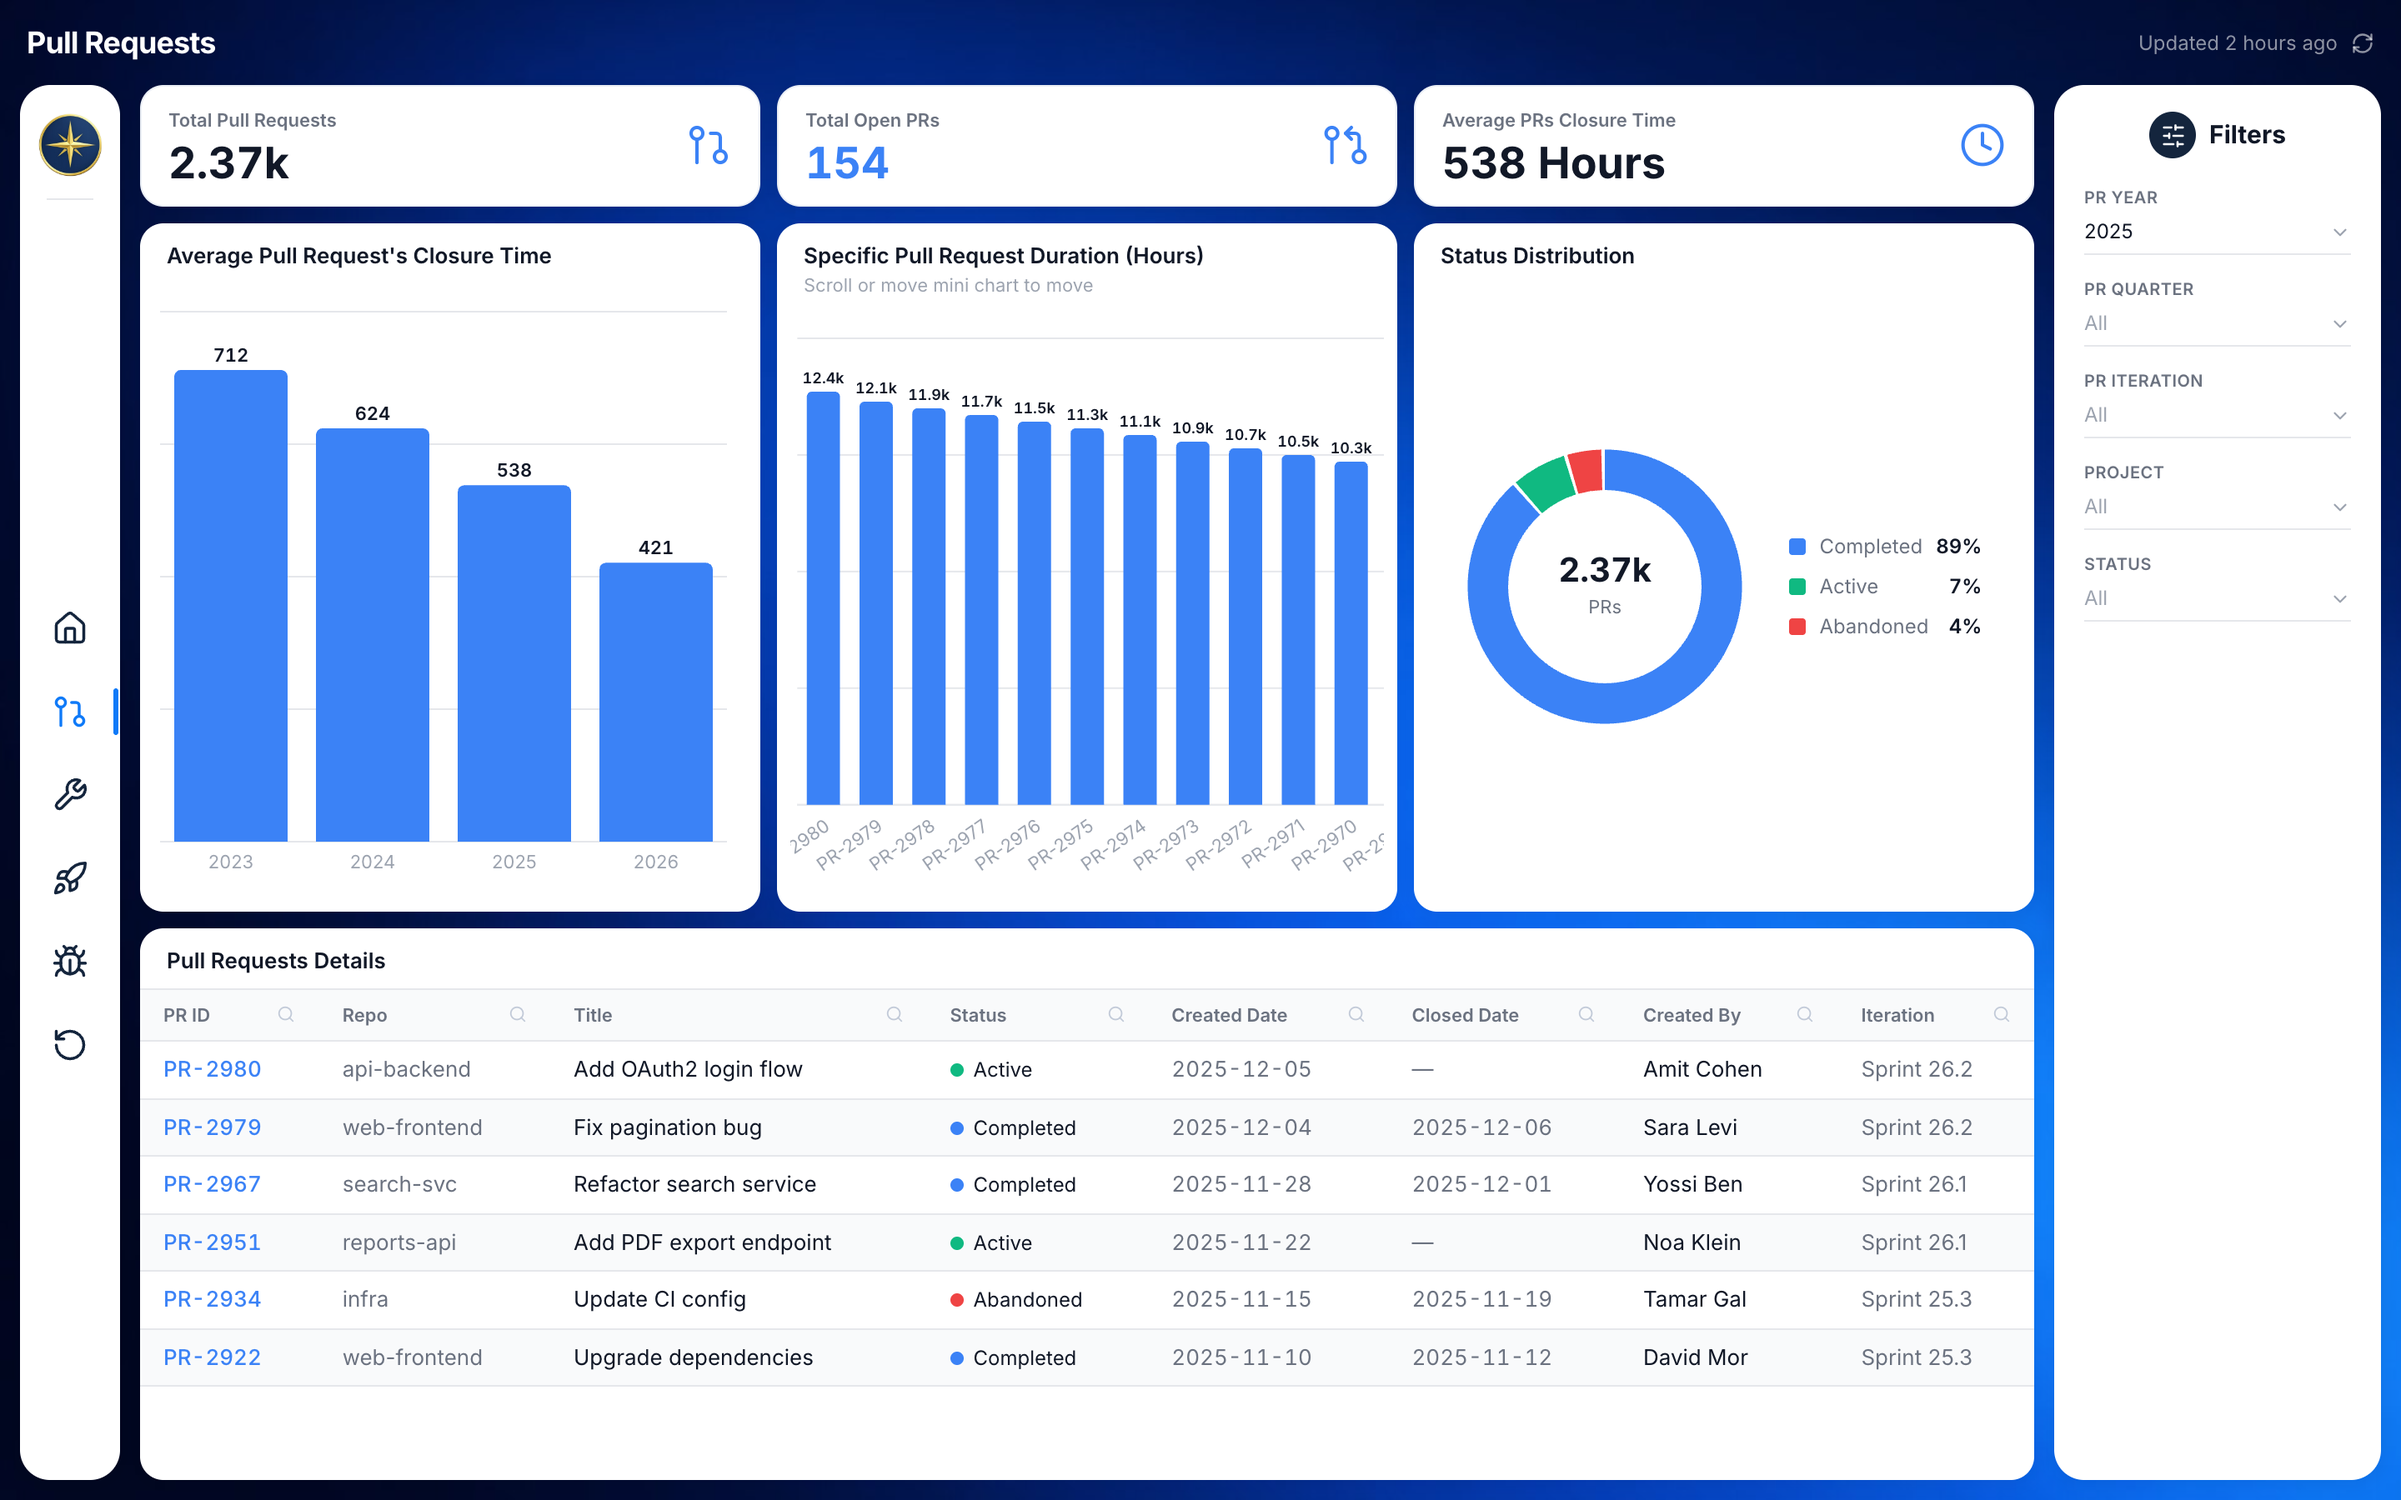
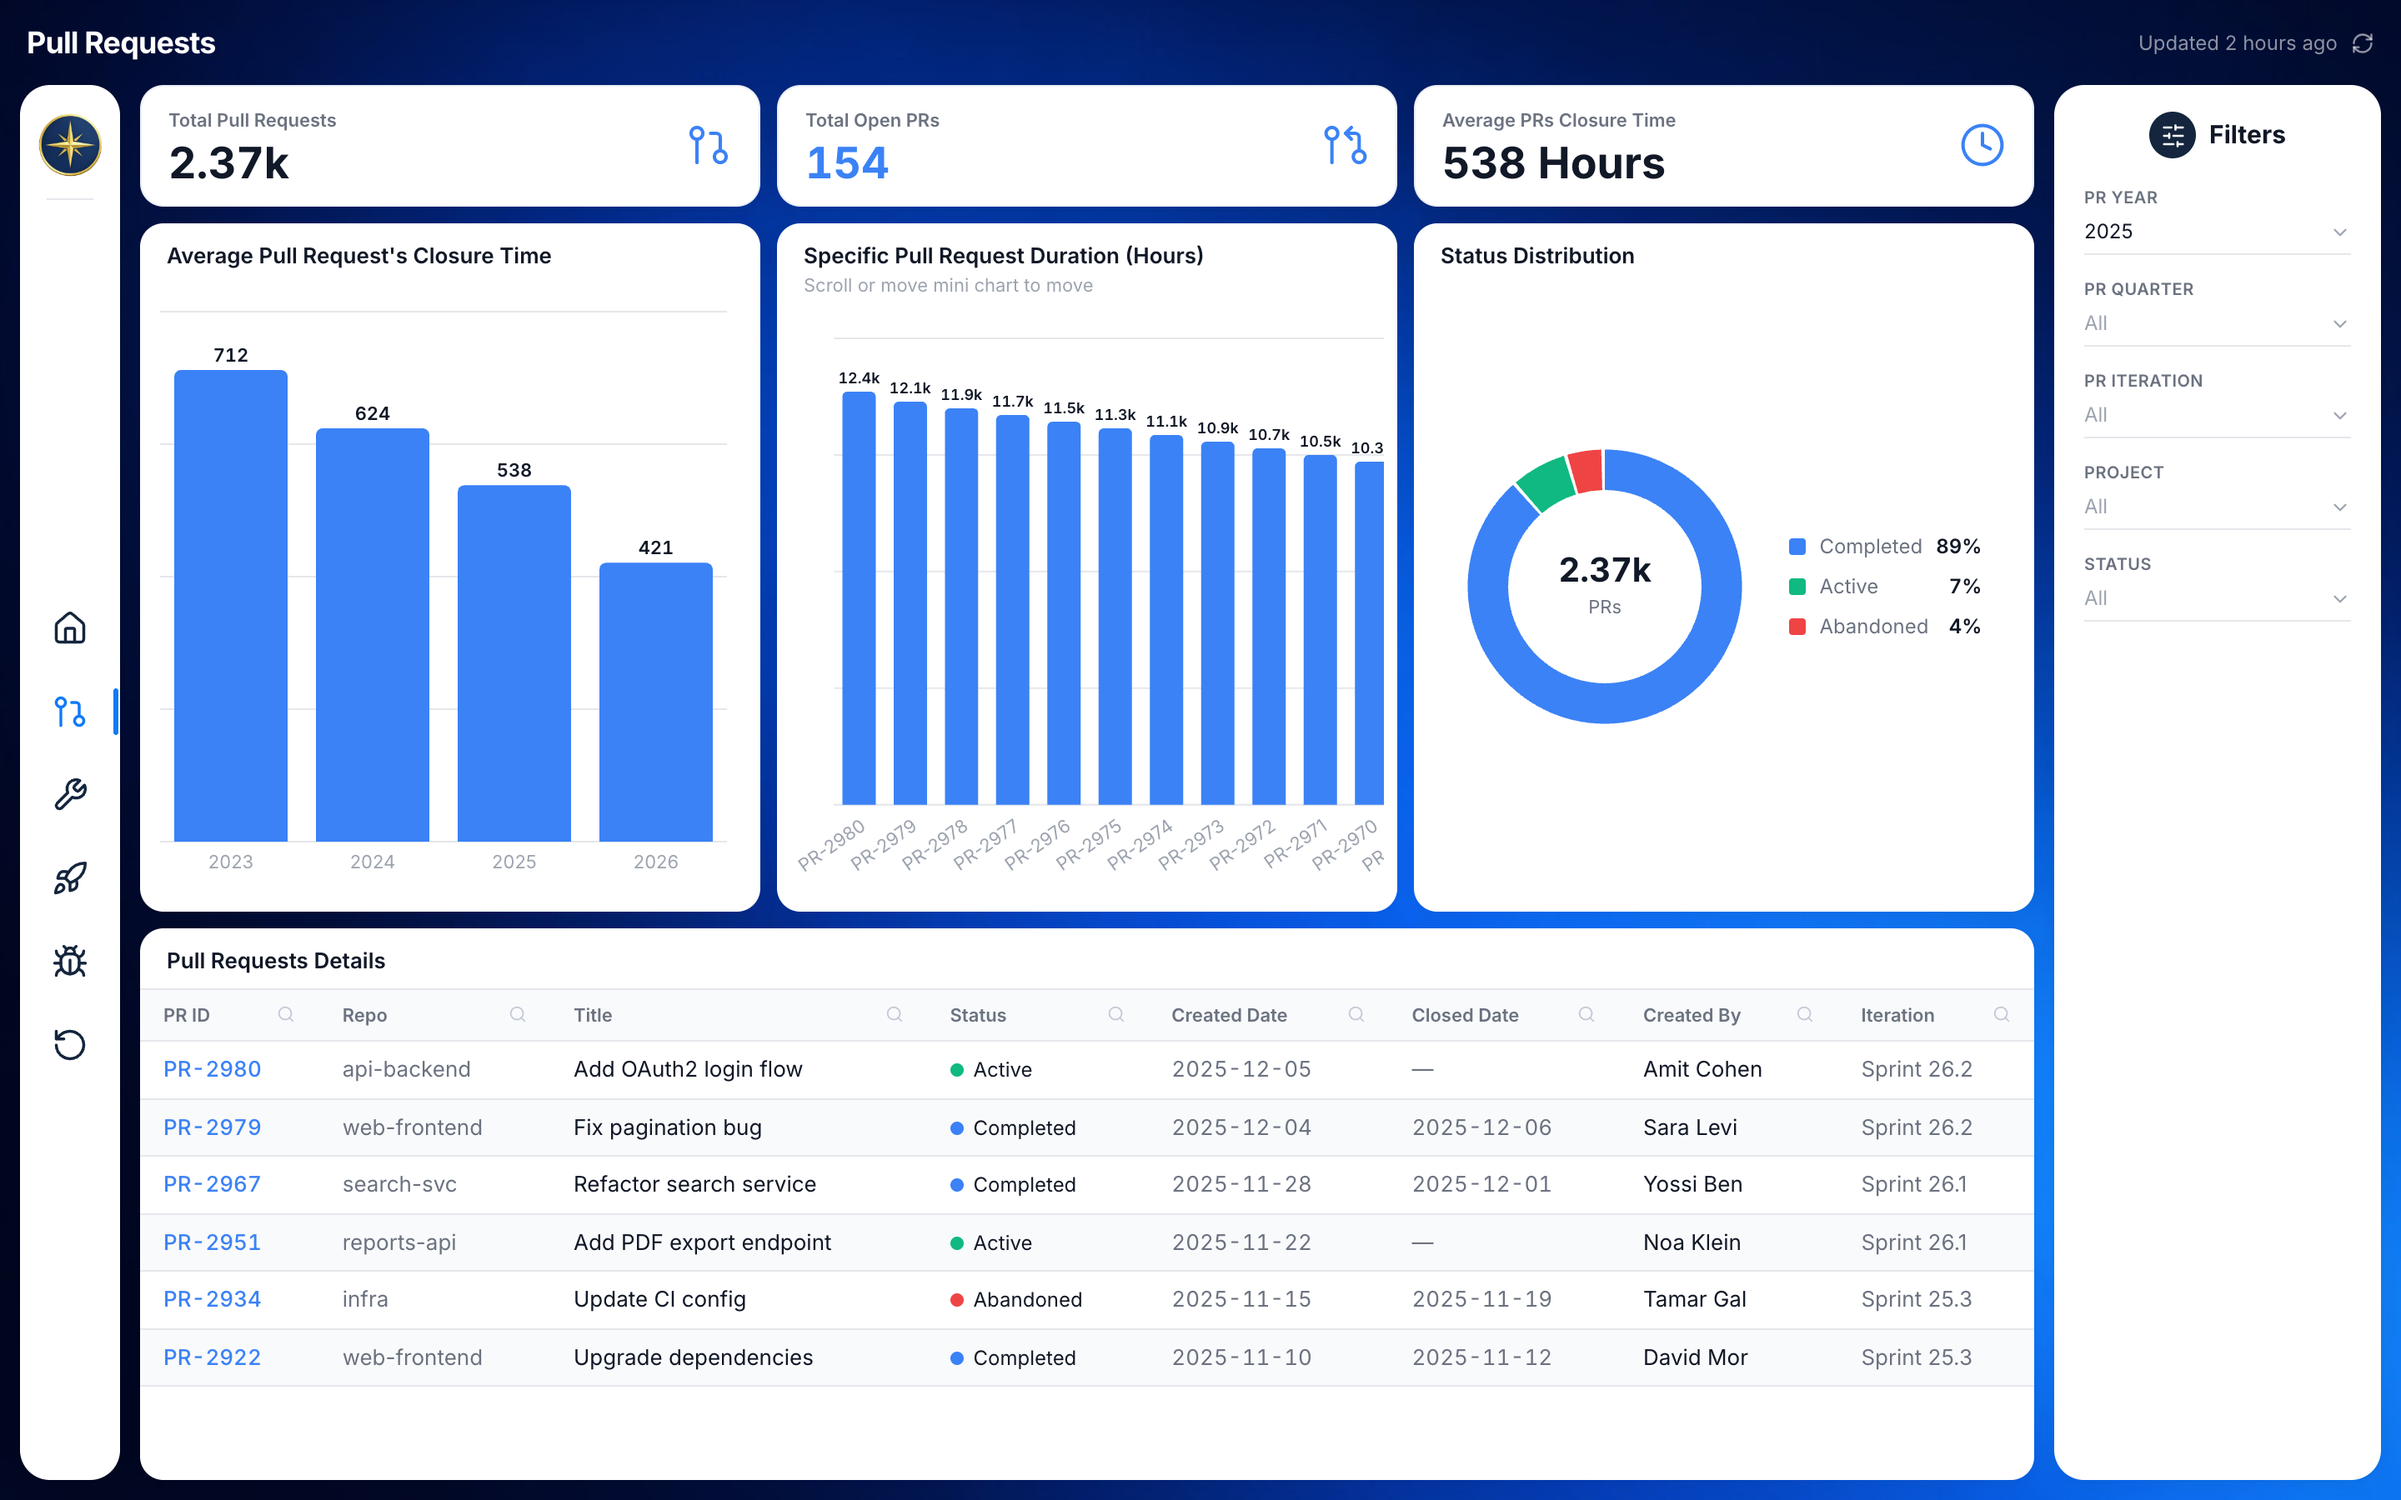
Fix rotated x-axis labels being clipped at the chart's left edge
Six charts use angle={-35} textAnchor="end" (Retrospect uses -30). Because
textAnchor="end" anchors the rotated label's end at the tick, the label
extends left and down from the anchor and overflowed the plot area, which
clipped the first one or two categories:

  Overview  "F-1042"          rendered as "-1042"
  Builds    "web-frontend-ci" rendered as "nd-ci"
            "api-backend-ci"  rendered as "pi-backend-ci"
  Bugs      "BUG-4012"        rendered as "-4012"

Each chart's margin.left is now sized from its own longest label rather
than a single blanket value, so wide labels fit without needlessly
squeezing the bars on charts with short ones.

Also adds scripts/screenshots.mjs, which regenerates docs/screenshots at
2880x1800. The original capture script was never committed. It waits for
document.fonts.ready and for the Recharts mount animation to settle before
capturing, otherwise the charts come out half drawn.

Screenshots regenerated with the fix applied.

Changed region(s): [[0.3125, 0.2489, 0.5938, 0.5911]]

diff --git a/src/screens/Bugs.tsx b/src/screens/Bugs.tsx
@@ -168,7 +168,7 @@ export default function Bugs() {
           {/* Top 10 Oldest Open Bugs — colored by severity */}
           <ChartCard index={5} title="Top 10 Oldest Open Bugs" subtitle="In Days">
             <ResponsiveContainer width="100%" height="100%">
-              <BarChart data={oldest as unknown as typeof avgClosure} margin={{ top: 22, right: 8, left: 4, bottom: 28 }}>
+              <BarChart data={oldest as unknown as typeof avgClosure} margin={{ top: 22, right: 8, left: 42, bottom: 28 }}>
                 <CartesianGrid vertical={false} stroke={COLORS.line} />
                 <XAxis dataKey="name" {...axisProps} angle={-35} textAnchor="end" interval={0} height={48} />
                 <YAxis hide />

diff --git a/src/screens/PRs.tsx b/src/screens/PRs.tsx
@@ -116,7 +116,7 @@ export default function PRs() {
             <div className="h-full overflow-x-auto pb-1">
               <div style={{ width: durations.length * 32, height: '100%' }}>
                 <ResponsiveContainer width="100%" height="100%">
-                  <BarChart data={durations} margin={{ top: 20, right: 4, left: 4, bottom: 18 }}>
+                  <BarChart data={durations} margin={{ top: 20, right: 4, left: 26, bottom: 18 }}>
                     <CartesianGrid vertical={false} stroke={COLORS.line} />
                     <XAxis dataKey="name" {...axisProps} angle={-35} textAnchor="end" interval={0} height={34} fontSize={9} />
                     <YAxis hide />

diff --git a/src/screens/Overview.tsx b/src/screens/Overview.tsx
@@ -162,7 +162,7 @@ export default function Overview() {
             right={<Toggle options={['Features', 'PBIs'] as const} value={topMode} onChange={setTopMode} />}
           >
             <ResponsiveContainer width="100%" height="100%">
-              <BarChart data={topData} margin={{ top: 22, right: 8, left: 4, bottom: 18 }}>
+              <BarChart data={topData} margin={{ top: 22, right: 8, left: 30, bottom: 18 }}>
                 <CartesianGrid vertical={false} stroke={COLORS.line} />
                 <XAxis dataKey="name" {...axisProps} angle={-35} textAnchor="end" interval={0} height={40} />
                 <YAxis hide />

diff --git a/src/screens/Releases.tsx b/src/screens/Releases.tsx
@@ -130,7 +130,7 @@ export default function Releases() {
 
           <ChartCard index={5} title="Average CD Pipeline Duration (Mins)">
             <ResponsiveContainer width="100%" height="100%">
-              <BarChart data={cdDuration} margin={{ top: 22, right: 8, left: 4, bottom: 30 }}>
+              <BarChart data={cdDuration} margin={{ top: 22, right: 8, left: 56, bottom: 30 }}>
                 <CartesianGrid vertical={false} stroke={COLORS.line} />
                 <XAxis dataKey="name" {...axisProps} angle={-35} textAnchor="end" interval={0} height={52} />
                 <YAxis hide />

diff --git a/src/screens/Retrospect.tsx b/src/screens/Retrospect.tsx
@@ -153,7 +153,7 @@ export default function Retrospect() {
               }
             >
               <ResponsiveContainer width="100%" height="100%">
-                <BarChart data={byProject} margin={{ top: 18, right: 12, left: 4, bottom: 28 }} barGap={2}>
+                <BarChart data={byProject} margin={{ top: 18, right: 12, left: 62, bottom: 28 }} barGap={2}>
                   <CartesianGrid vertical={false} stroke={COLORS.line} />
                   <XAxis dataKey="name" {...axisProps} angle={-30} textAnchor="end" interval={0} height={46} />
                   <YAxis hide />

diff --git a/src/screens/Builds.tsx b/src/screens/Builds.tsx
@@ -127,7 +127,7 @@ export default function Builds() {
 
           <ChartCard index={4} title="Top 10 Slowest Pipelines (Mins)">
             <ResponsiveContainer width="100%" height="100%">
-              <BarChart data={slowest} margin={{ top: 22, right: 8, left: 4, bottom: 30 }}>
+              <BarChart data={slowest} margin={{ top: 22, right: 8, left: 60, bottom: 30 }}>
                 <CartesianGrid vertical={false} stroke={COLORS.line} />
                 <XAxis dataKey="name" {...axisProps} angle={-35} textAnchor="end" interval={0} height={52} />
                 <YAxis hide />
